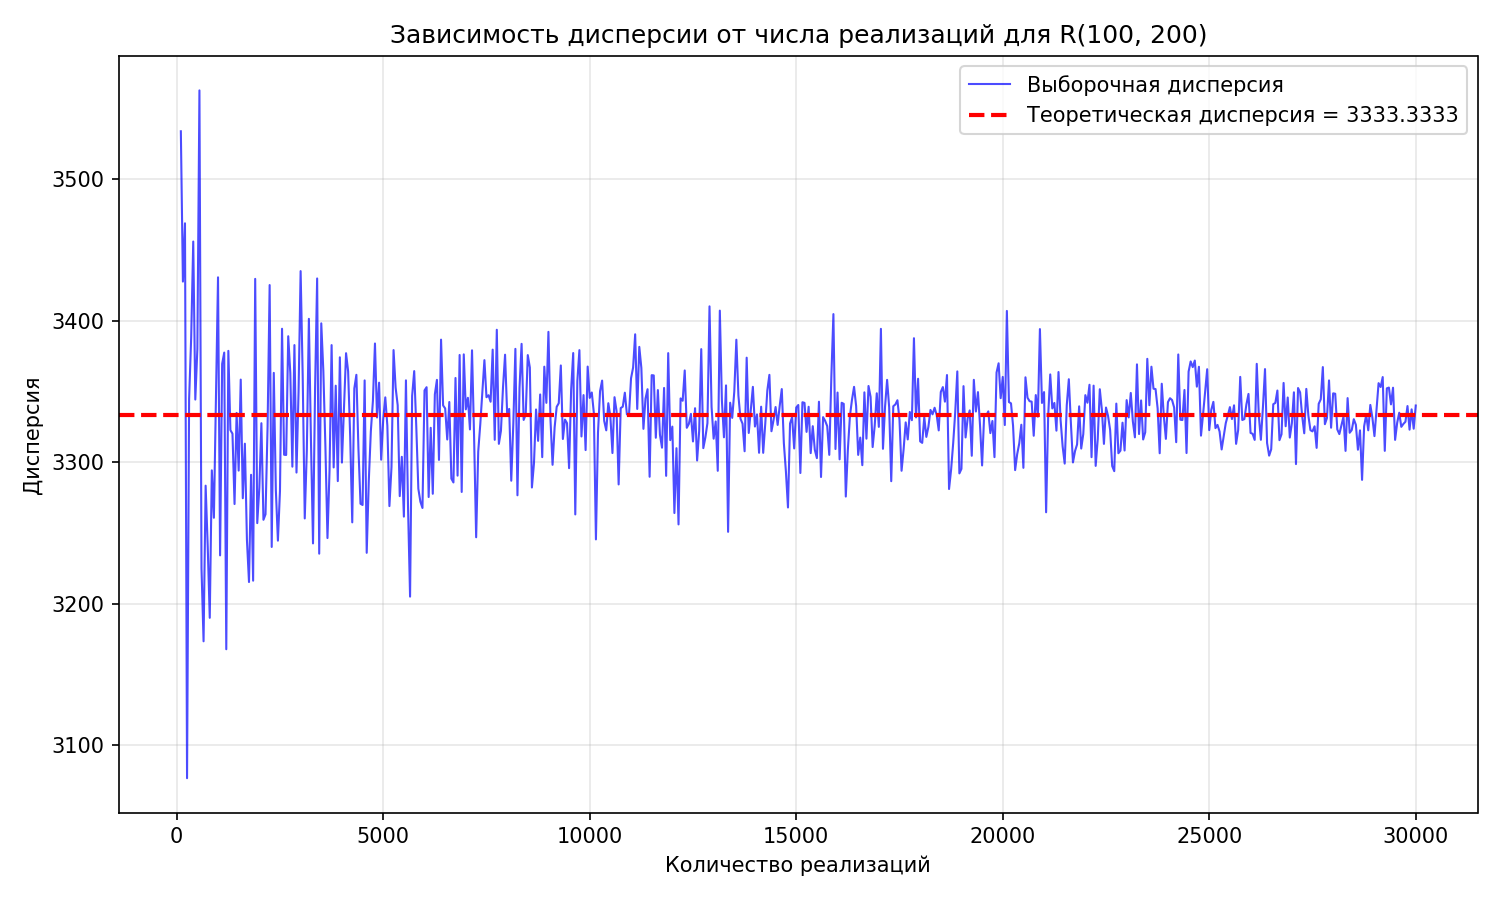
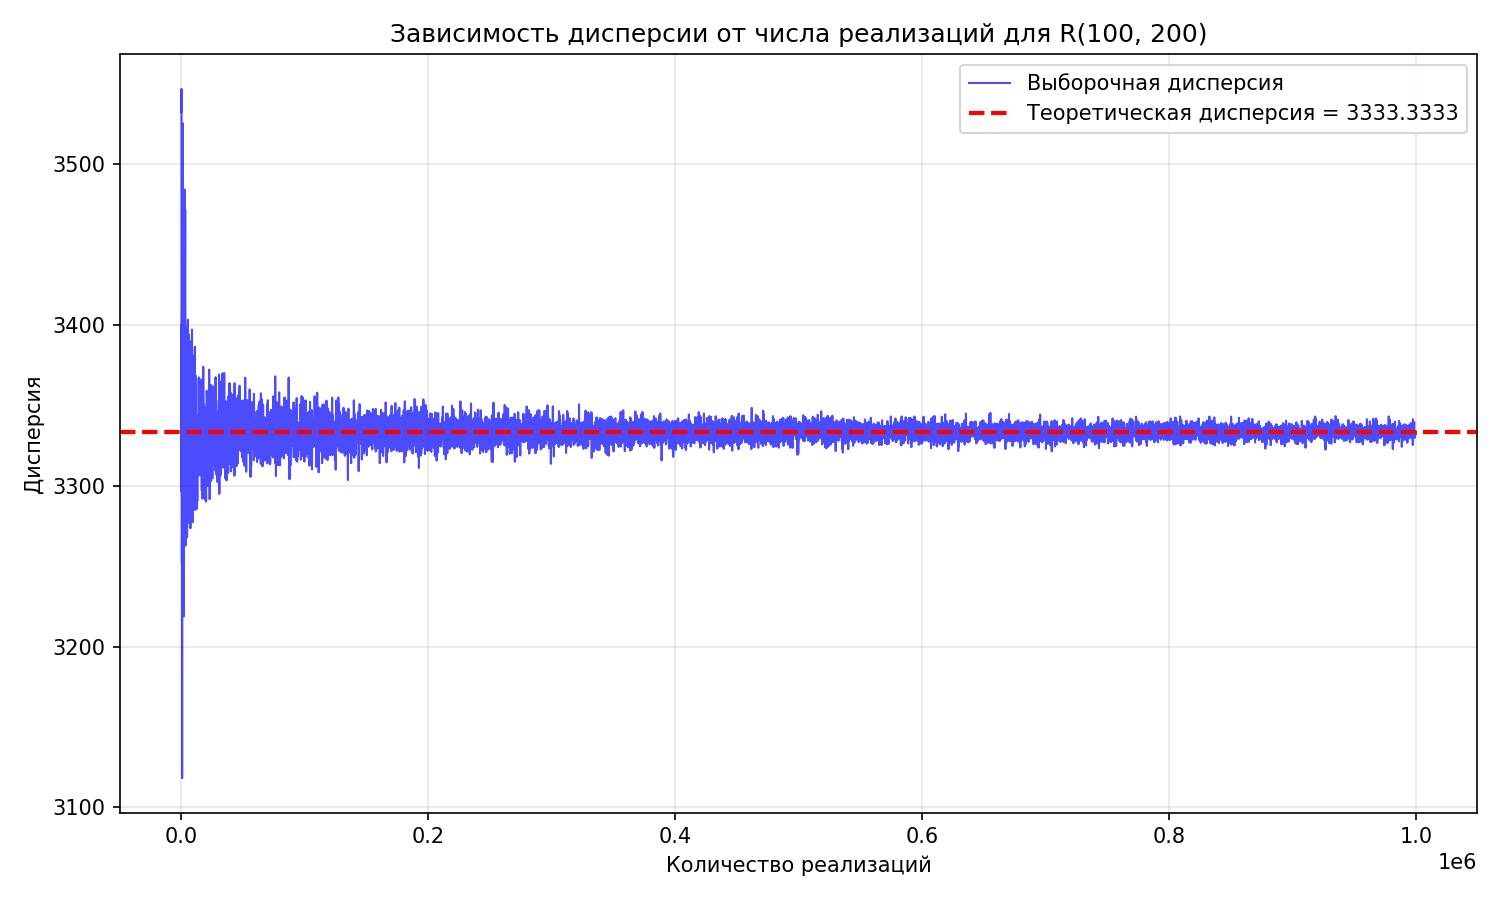
Finalizing code and graphic

diff --git a/lab1/main.py b/lab1/main.py
@@ -11,7 +11,7 @@ def generate_uniform(a, b, size):
     samples = a + b * alpha
     return samples
 
-realizations = np.arange(100, 30001, 50)
+realizations = np.arange(100, 1000001, 100)
 sample_variances = []
 
 print(f"Равномерное распределение R({a}, {b})")
@@ -27,28 +27,47 @@ for N in realizations:
     if N % 5000 == 0:
         print(f"N = {N}: выборочная дисперсия = {sample_var:.4f}")
 
-plt.figure(figsize=(10, 6))
-plt.plot(
-    realizations,
-    sample_variances,
-    'b-',
-    alpha=0.7,
-    linewidth=1,
-    label='Выборочная дисперсия',
-)
-plt.axhline(
-    y=theoretical_variance,
-    color='r',
-    linestyle='--',
-    linewidth=2,
-    label=f'Теоретическая дисперсия = {theoretical_variance:.4f}',
-)
+def plot_graph(x, y, filename, ylabel):
+    plt.figure(figsize=(10, 6))
+    plt.plot(
+        x,
+        y,
+        'b-',
+        alpha=0.7,
+        linewidth=1,
+        label='Выборочная дисперсия',
+    )
+    plt.axhline(
+        y=theoretical_variance,
+        color='r',
+        linestyle='--',
+        linewidth=2,
+        label=f'Теоретическая дисперсия = {theoretical_variance:.4f}',
+    )
 
-plt.xlabel('Количество реализаций')
-plt.ylabel('Дисперсия')
-plt.title(f'Зависимость дисперсии от числа реализаций для R({a}, {b})')
-plt.legend()
-plt.grid(True, alpha=0.3)
-plt.tight_layout()
+    plt.xlabel('Количество реализаций')
+    plt.ylabel(ylabel)
+    plt.title(f'Зависимость дисперсии от числа реализаций для R({a}, {b})')
+    plt.legend()
+    plt.grid(True, alpha=0.3)
+    plt.tight_layout()
 
-plt.savefig('krutoy_graphic.png', dpi=150)
+    plt.savefig(filename, dpi=150)
+
+
+plot_graph(realizations, sample_variances, 'krutoy_graphic.png', 'Дисперсия')
+
+# window = 5
+# averaged_realizations = []
+# averaged_sample_variances = []
+
+# for i in range(0, len(realizations), 5):
+#     start = i
+#     end = min(start + 5, len(realizations))
+#     cnt = end - start
+#     averaged_realizations.append(sum(realizations[start:end]) / cnt)
+#     averaged_sample_variances.append(sum(sample_variances[start:end]) / cnt)
+# print(averaged_realizations[-1])
+# print(averaged_sample_variances[-1])
+
+# plot_graph(averaged_realizations, averaged_sample_variances, 'krutoy_graphic2.png', f'Средняя дисперсия по окнам {window}')
